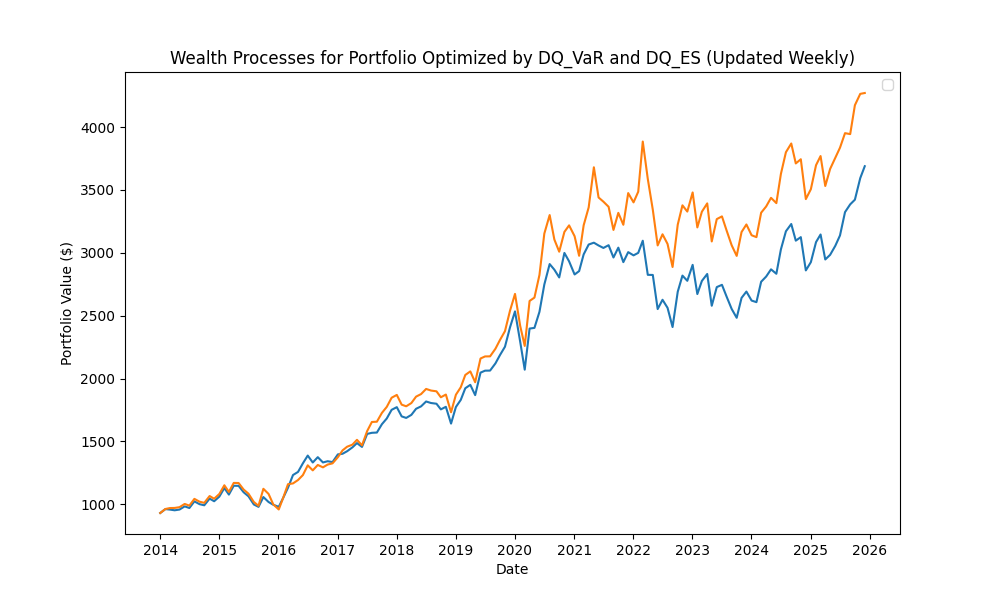
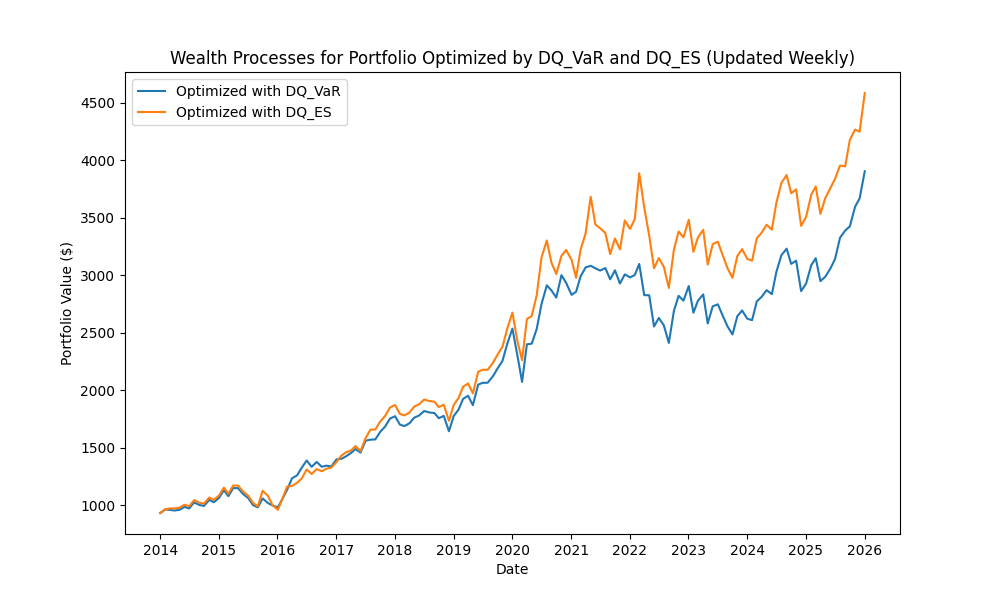
updates DQ VaR and DQ ES. Added legends on DQ_portfolio.png

diff --git a/python/example.py b/python/example.py
@@ -43,8 +43,8 @@ plt.savefig("./output/DQs.png")
 
 plt.figure(figsize=(10, 6))
 
-plt.plot(portfolio_value_DQVaR)
-plt.plot(portfolio_value_DQES)
+plt.plot(portfolio_value_DQVaR, label="Optimized with DQ_VaR")
+plt.plot(portfolio_value_DQES, label="Optimized with DQ_ES")
 
 plt.gca().xaxis.set_major_formatter(mdates.DateFormatter('%Y'))
 
